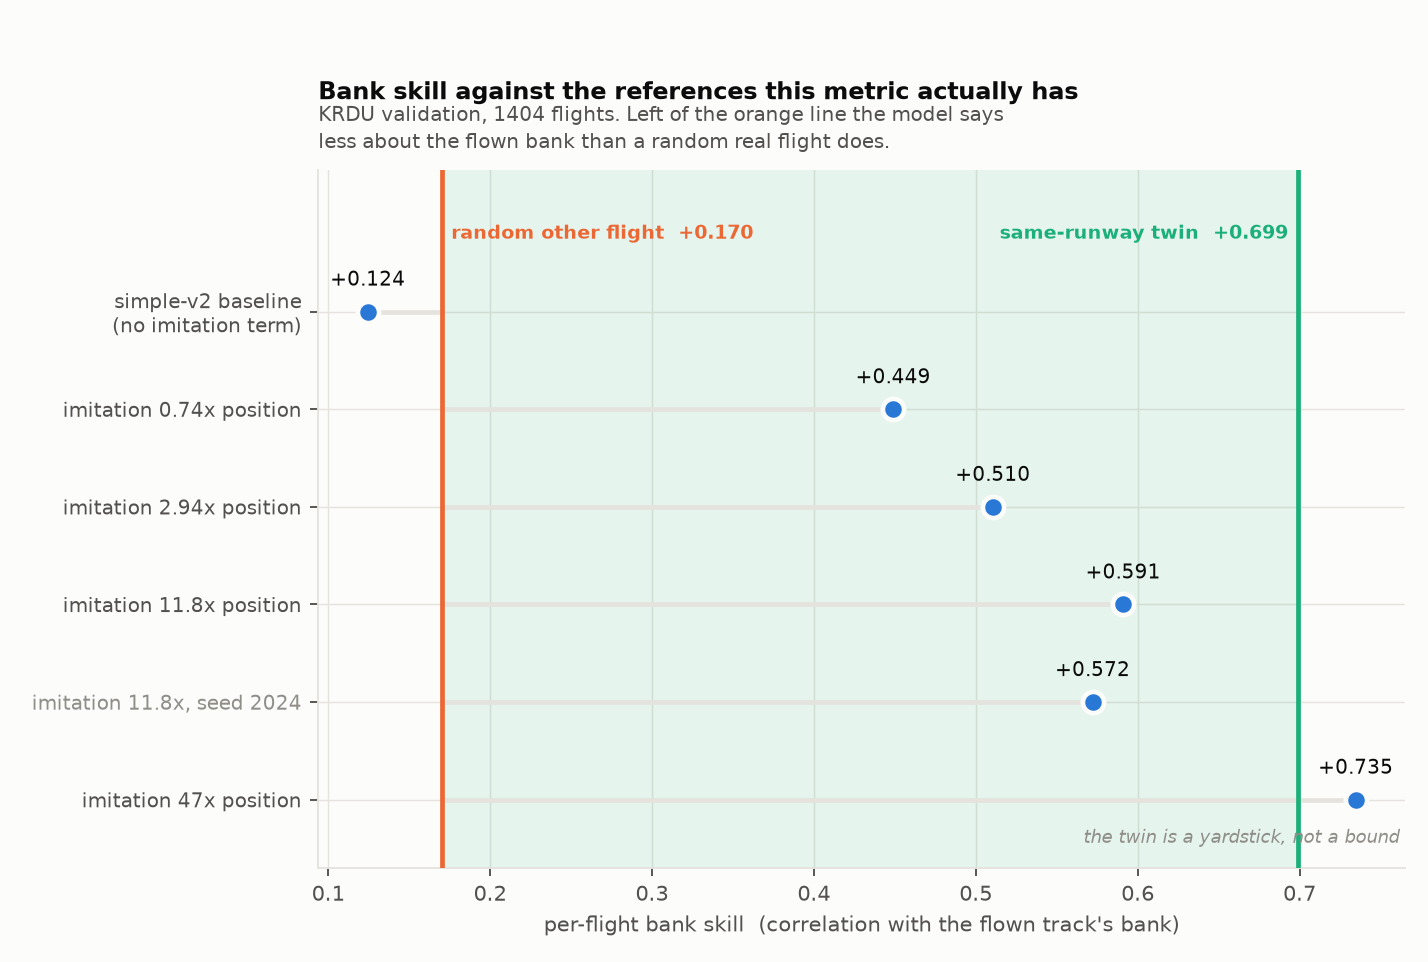
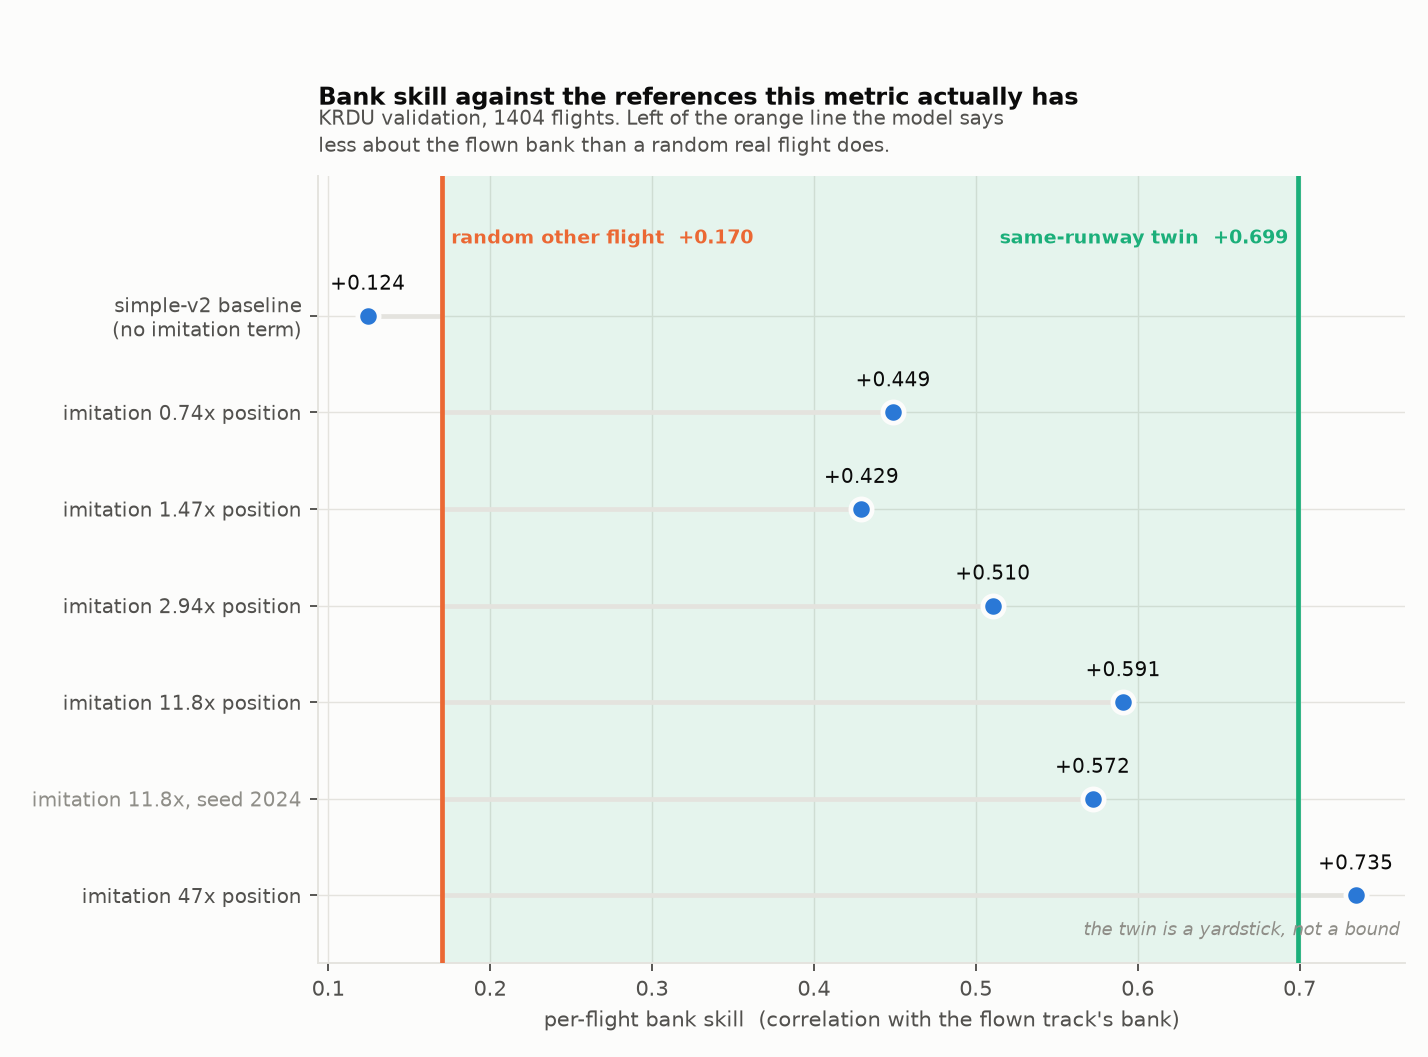
docs(ts_transformer): the low-dose region is a noisy plateau, not a ramp
The 1.47x arm that filled the gap between 0.74x and 2.94x came out WORSE than
the arm below it -- bank skill better on only 27.1 % of flights, ADE on 33.1 % --
while still beating the baseline decisively (0.124 -> 0.429, 87.0 %). Together
with the accuracy dip at 2.94x that says 0.74x-2.94x is a plateau whose internal
ordering is not usable, and that the real gains are all above 11.8x, where the
curve is still climbing steeply at 47x (skill +0.144, common-profile share
21.4 % -> 3.3 %).

Worth keeping in mind for the next dose search: sampling only that low region
would have concluded the term barely works. The original 1/4/16 geometric ladder
is what made the effect visible.

diff --git a/4dTrajectory/ts_transformer/docs/2026-08-19_control_bank_wiggle_diagnosis.zh.md b/4dTrajectory/ts_transformer/docs/2026-08-19_control_bank_wiggle_diagnosis.zh.md
@@ -519,7 +519,7 @@ loss += w · mean_c[ ((u_pred - u_ref) / halfbox_c)^2 ]  ，按段加权
 （`val parts state` = 0.0417，未加权 imitation MSE = 0.0308），**w = 1.36 恰好是 1× 位置项**，
 因此三条 arm 实为 **0.74× / 2.95× / 11.8×**。
 
-### 12.7 剂量实验结果：直接监督控制量有效，且越强越好
+### 12.7 剂量实验结果：直接监督控制量有效
 
 KRDU validation 1404 条航班，`simple-v2` 基线 + 五个剂量（剂量 = imitation 项相对位置项的
 倍数，w = 1.36 为 1×）：
@@ -529,6 +529,7 @@ KRDU validation 1404 条航班，`simple-v2` 基线 + 五个剂量（剂量 = im
 | **真实** | **3.2 %** | **0.55°** | **0** | — | | |
 | 0（基线） | 49.0 % | 3.92° | 5.0 | 0.124 | 576.4 | 987.6 |
 | 0.74× | 32.4 % | 1.13° | 1.0 | 0.449 | 562.4 | **915.4** |
+| 1.47× | 40.2 % | 1.21° | 0.0 | 0.429 | 684.3 | 1040.7 |
 | 2.94× | 31.0 % | 0.70° | 0.0 | 0.510 | 613.9 | 990.5 |
 | 11.8× | 21.4 % | 0.54° | 0.0 | 0.591 | 523.5 | 957.3 |
 | 11.8×（种子 2024） | 20.8 % | 0.58° | 0.0 | 0.572 | 525.2 | 973.2 |
@@ -544,9 +545,29 @@ KRDU validation 1404 条航班，`simple-v2` 基线 + 五个剂量（剂量 = im
 （p = 1.9e-7），FDE 54.3 % 更差（p = 1.2e-3，中位数 987.6 → 987.0，实际几乎不动）。
 
 **这与 velocity 项的取舍性质完全不同**：velocity 剂量要拿到 bank 结构必须付出 FDE
-变差 18–50 % 的代价（§12.5），而直接监督控制量在改善结构的同时 **ADE 也单调变好**。
+变差 18–50 % 的代价（§12.5），而 47× 在把控制结构改到真值水平的同时 **ADE 反而更好**。
+（"越强越好"只在 11.8× 以上成立；低剂量区见 §12.8。）
 
-### 12.8 孪生参照不是上界，而且符号检验的 p 值不能当效应量读
+### 12.8 低剂量区是噪声平台，收益全在高剂量端
+
+补上 1.47× 之后（填 0.74× 与 2.94× 之间的空档），低剂量区并不是一条平滑上升的曲线：
+
+| 剂量 | 共用剖面 | bank 技能 | ADE 中位 | FDE 中位 |
+|---:|---:|---:|---:|---:|
+| 0.74× | 32.4 % | 0.449 | 562.4 | 915.4 |
+| **1.47×** | **40.2 %** | **0.429** | **684.3** | **1040.7** |
+| 2.94× | 31.0 % | 0.510 | 692.0 | 990.5 |
+
+**1.47× 比它下面那一档还差**：配对检验里 0.74× → 1.47× 三项指标全负（bank 技能仅
+27.1 % 航班更好，ADE 33.1 %）。它相对基线仍然大幅改善 bank 技能（0.124 → 0.429，
+87.0 % 航班更好），但在剂量序列里是个凹点。
+
+结合 2.94× 的精度凹陷，结论是：**0.74×–2.94× 这一段是一个抖动的平台，档与档之间的
+差异并不构成可用的排序**；真正的收益集中在 11.8× 以上，而且从 11.8× 到 47× 仍在
+大幅改善（技能 +0.144，共用剖面 21.4 % → 3.3 %）。这也解释了为什么最初按 1/4/16
+的几何梯度取样是对的——如果只在低剂量区细分，会得出"这个项没什么用"的错误结论。
+
+### 12.9 孪生参照不是上界，而且符号检验的 p 值不能当效应量读
 
 两处必须写下来，否则后来的人会照着错误的方式读这张表。
 
